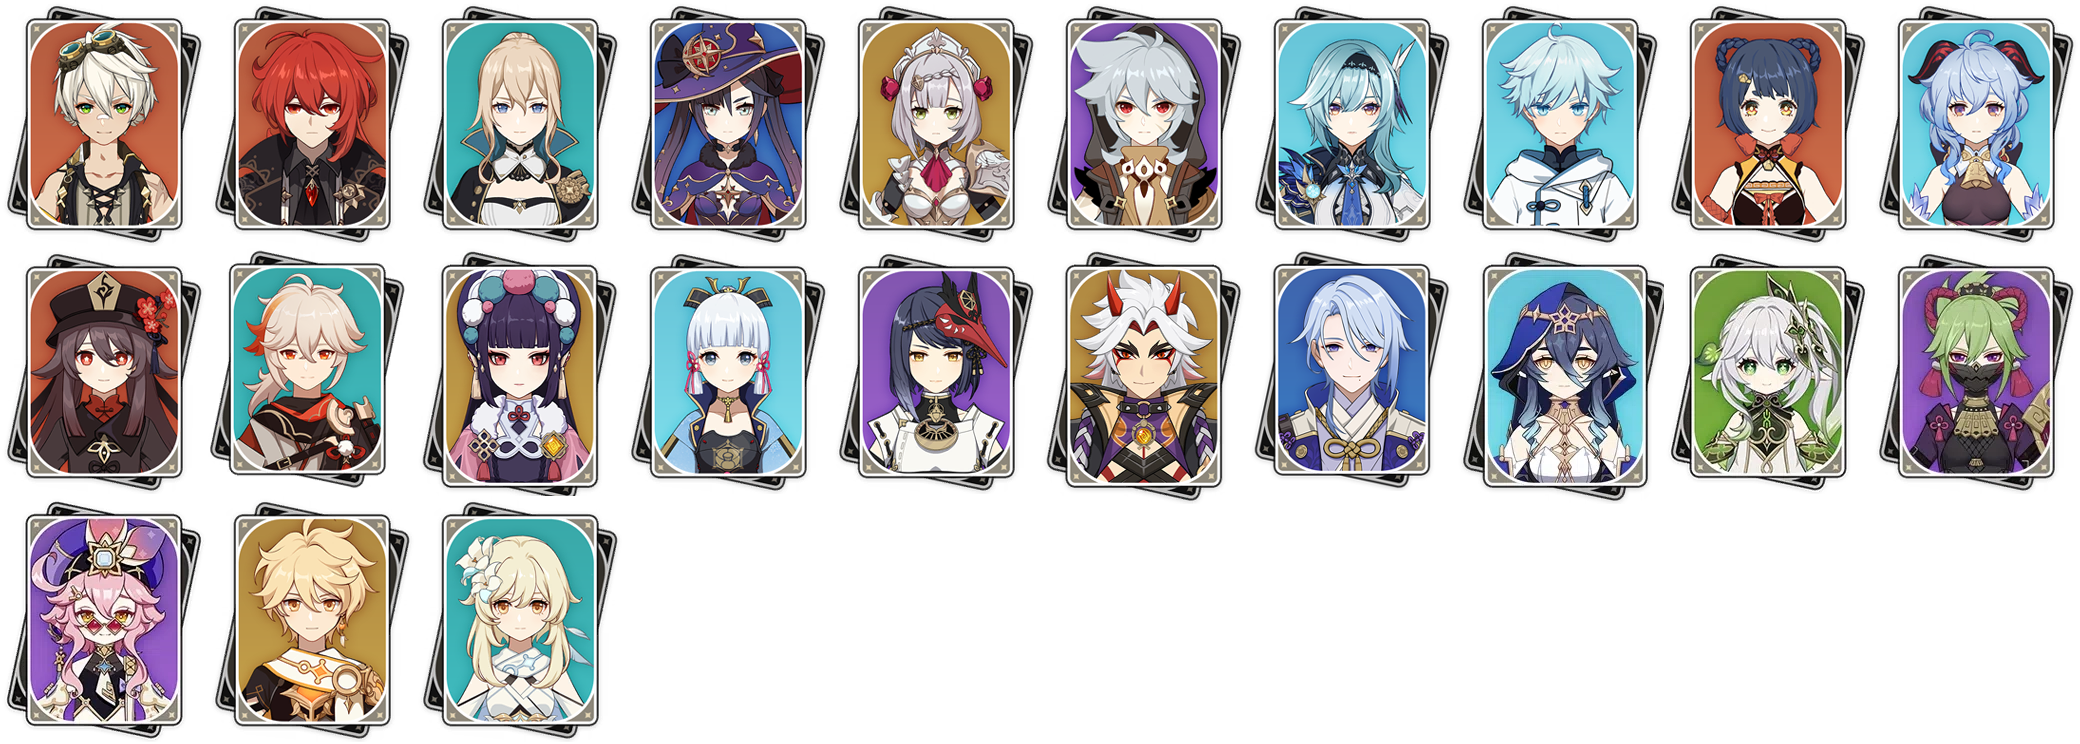
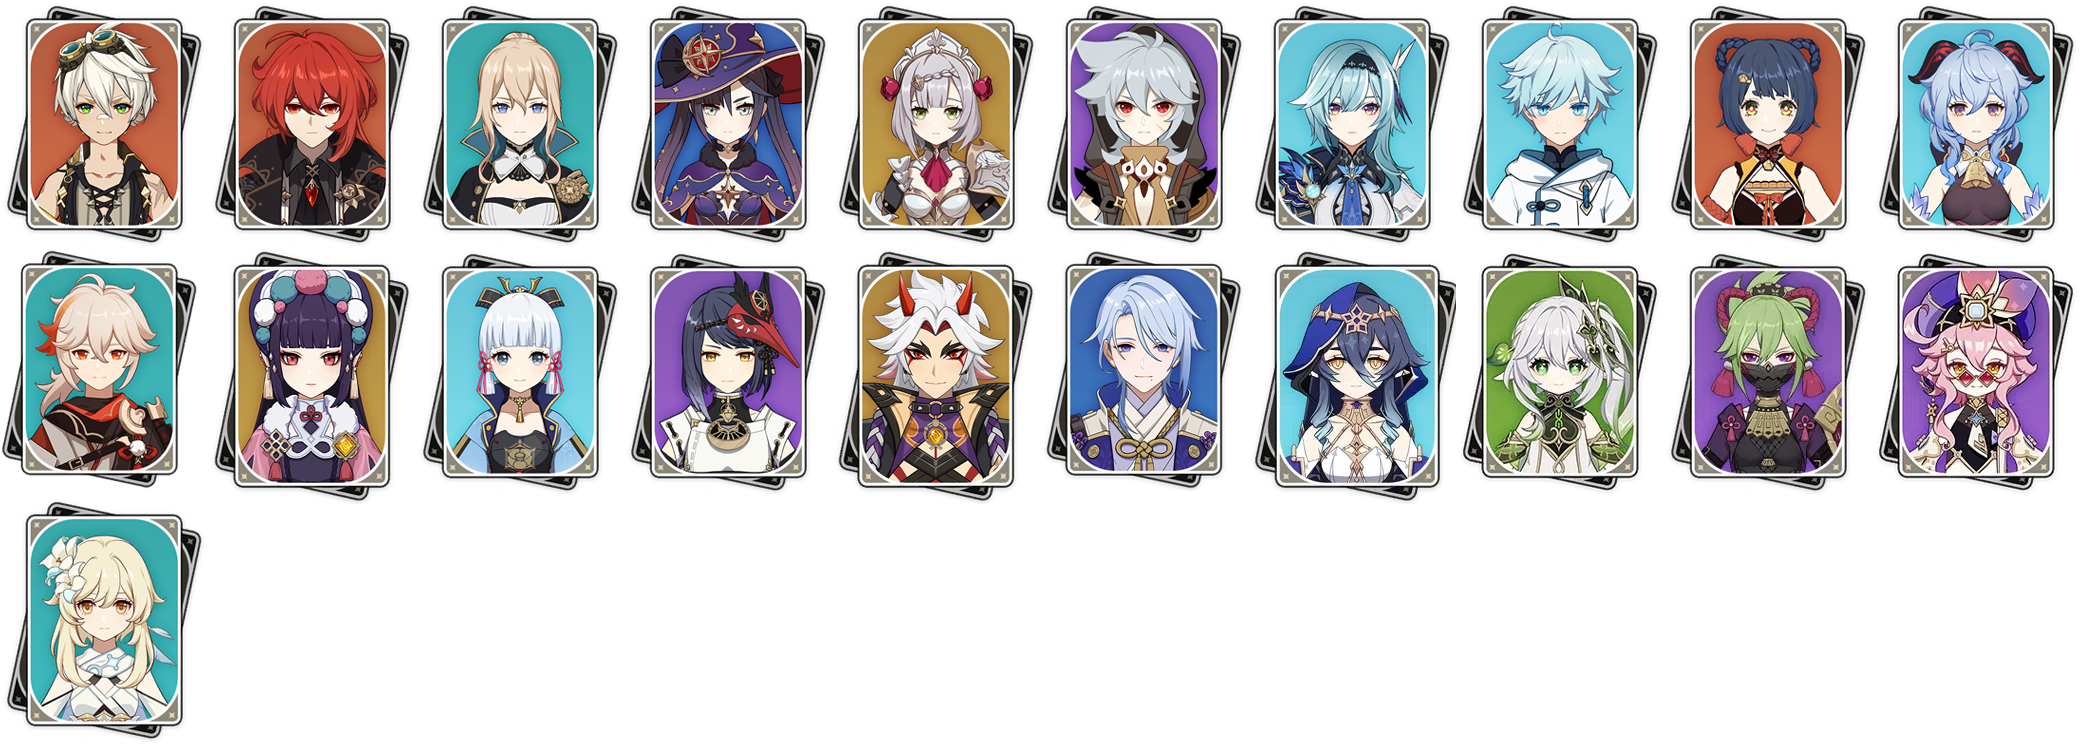
Correction d'un bug de résolution des images générées

Changed region(s): [[0.0, 0.3401, 1.0, 0.9892]]

diff --git a/utils/classes/imagemaker.py b/utils/classes/imagemaker.py
@@ -1,9 +1,10 @@
 from PIL import Image
+from math import ceil
 
 
 class ImageMaker:
     def __init__(self, liste_noms: list[str], mode: int):
-        self.MAX_COLUMNS = 9
+        self.MAX_COLUMNS = 10
         if mode == 0:
             self.IMAGE_NAME = "data/out/final.png"
         else:
@@ -26,13 +27,13 @@ class ImageMaker:
         return res
 
     def __calculate_height(self) -> int:
-        return (int(len(self.liste_noms) / self.MAX_COLUMNS + 1)) * self.card_img_list[0].size[1]
+        return (ceil(len(self.liste_noms) / self.MAX_COLUMNS)) * self.card_img_list[0].size[1]
 
     def __calculate_width(self) -> int:
         res = 0
         pic_counter = 0
         for pic in self.card_img_list:
-            if pic_counter > self.MAX_COLUMNS:
+            if pic_counter == self.MAX_COLUMNS:
                 break
             res += pic.size[0]
             pic_counter += 1
